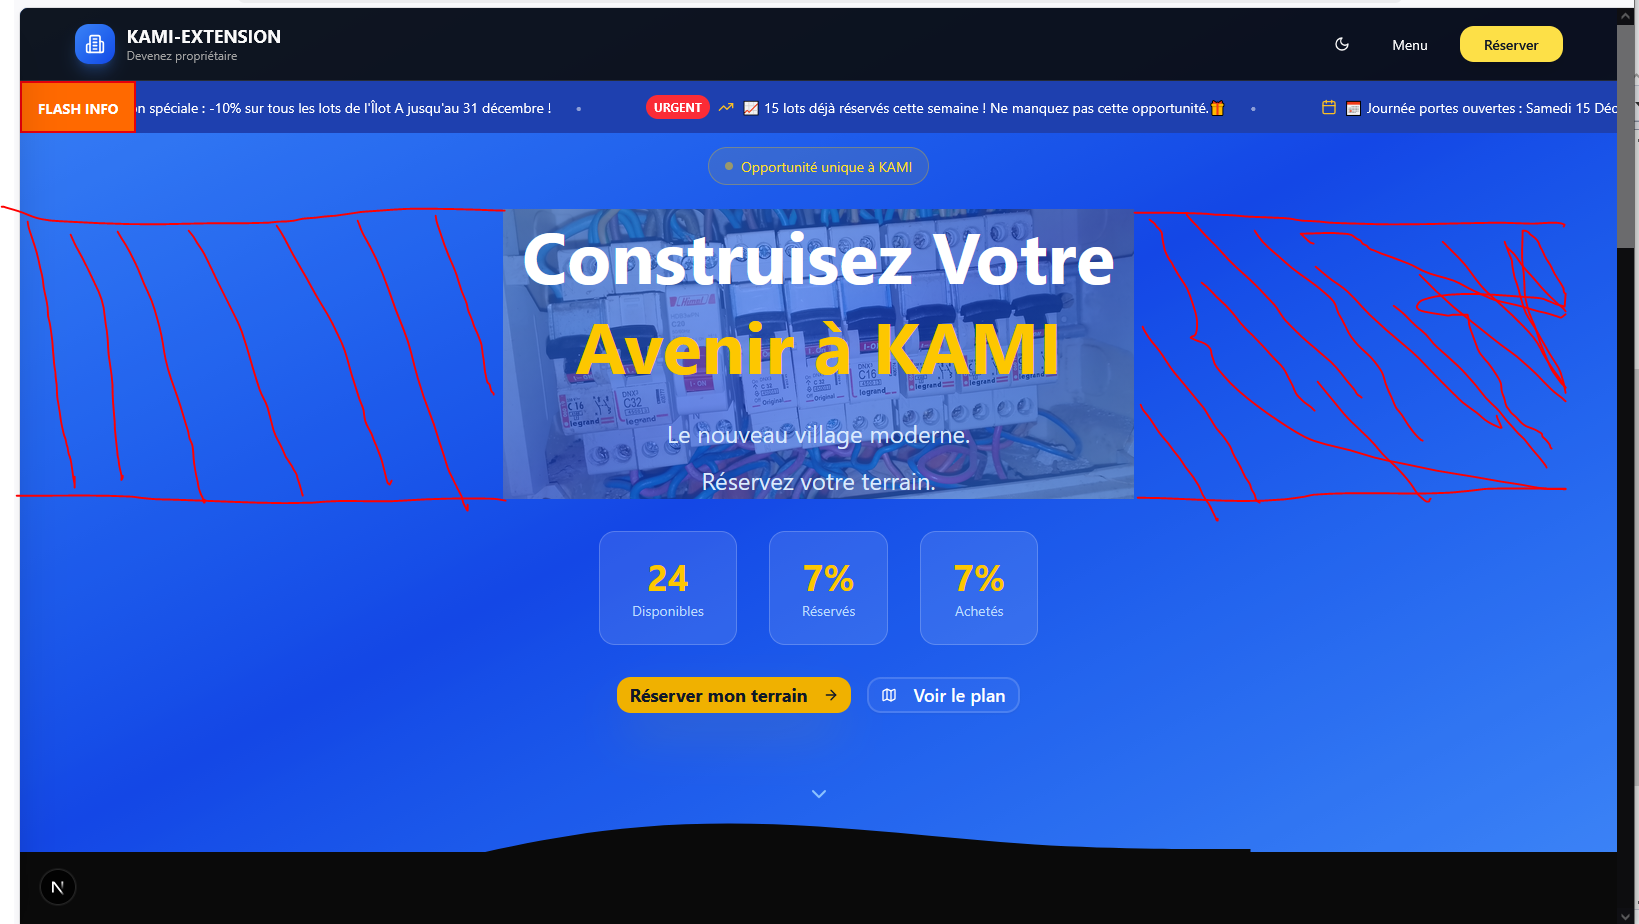
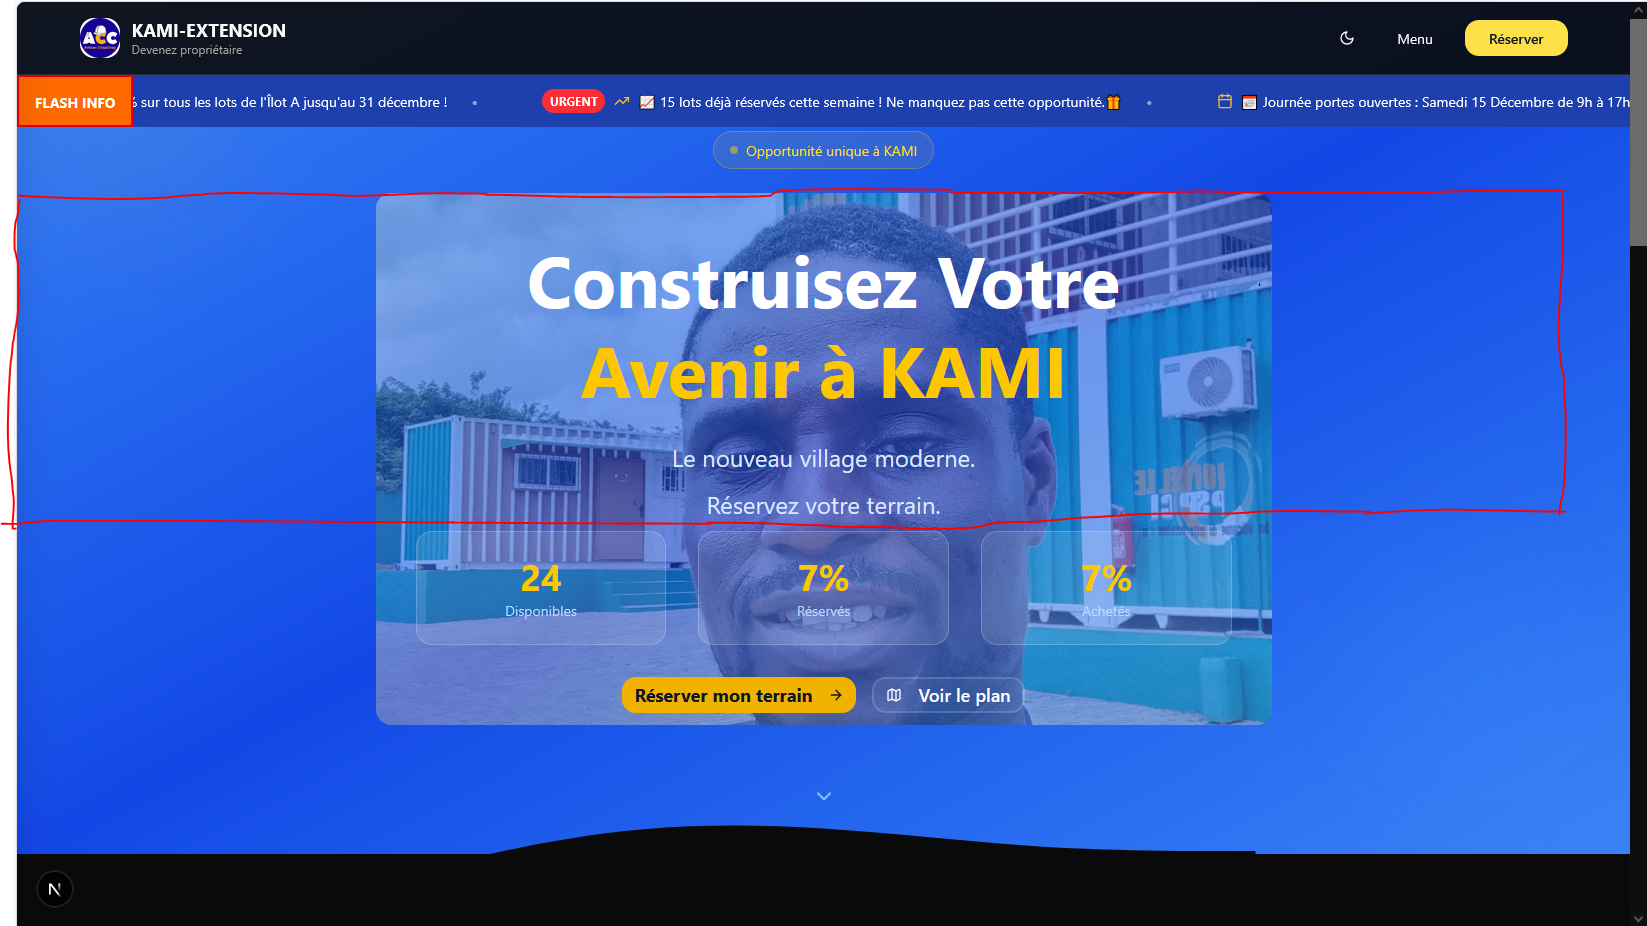
ea3c562f-093c-412b-a10b-f506db16364b

diff --git a/src/components/kami/PersuasiveLandingPage.tsx b/src/components/kami/PersuasiveLandingPage.tsx
@@ -208,7 +208,7 @@ export function PersuasiveLandingPage({ onReserveClick, lots, setIsMenuOpen, set
               </span>
             </div>
 
-            {/* ===== Image de fond : juste en-dessous du badge, jusqu'aux boutons ===== */}
+            {/* ===== Image de fond : titre + sous-titre uniquement ===== */}
             <div
               className="relative rounded-2xl overflow-hidden"
               style={heroBackground ? {
@@ -222,7 +222,7 @@ export function PersuasiveLandingPage({ onReserveClick, lots, setIsMenuOpen, set
                 <div className="absolute inset-0 bg-gradient-to-br from-brand-blue/55 via-blue-700/55 to-brand-blue/55" />
               )}
 
-              <div className="relative z-10 pt-6 pb-3 md:pt-10 md:pb-3 px-4 md:px-10">
+              <div className="relative z-10 py-6 md:py-10 px-4 md:px-10">
                 {/* Main Heading */}
                 <h1 className="text-4xl sm:text-4xl md:text-5xl lg:text-7xl font-bold mb-4 md:mb-6 leading-tight">
                   Construisez Votre
@@ -230,48 +230,48 @@ export function PersuasiveLandingPage({ onReserveClick, lots, setIsMenuOpen, set
                 </h1>
 
                 {/* Subtitle */}
-                <div className="text-base md:text-xl lg:text-2xl text-blue-100 mb-2 leading-relaxed max-w-2xl mx-auto">
+                <div className="text-base md:text-xl lg:text-2xl text-blue-100 leading-relaxed max-w-2xl mx-auto">
                   Le nouveau village moderne.
                 </div>
-                <div className="text-base md:text-xl lg:text-2xl text-blue-100 pb-2 leading-relaxed max-w-2xl mx-auto">
+                <div className="text-base md:text-xl lg:text-2xl text-blue-100 leading-relaxed max-w-2xl mx-auto">
                   Réservez votre terrain.
                 </div>
-
-                {/* Stats */}
-                <div className="flex flex-row gap-2 md:gap-8 justify-center mb-5 md:mb-8">
-                  <div className="bg-white/10 backdrop-blur-sm rounded-xl md:rounded-2xl px-3 md:px-8 py-2 md:py-6 border border-white/20 flex-1">
-                    <p className="text-xl md:text-4xl font-bold text-yellow-400">{animatedNumbers.available}</p>
-                    <p className="text-[10px] md:text-sm text-blue-200 mt-1">Disponibles</p>
-                  </div>
-                  <div className="bg-white/10 backdrop-blur-sm rounded-xl md:rounded-2xl px-3 md:px-8 py-2 md:py-6 border border-white/20 flex-1">
-                    <p className="text-xl md:text-4xl font-bold text-yellow-400">{animatedNumbers.reservedRate}%</p>
-                    <p className="text-[10px] md:text-sm text-blue-200 mt-1">Réservés</p>
-                  </div>
-                  <div className="bg-white/10 backdrop-blur-sm rounded-xl md:rounded-2xl px-3 md:px-8 py-2 md:py-6 border border-white/20 flex-1">
-                    <p className="text-xl md:text-4xl font-bold text-yellow-400">{animatedNumbers.purchasedRate}%</p>
-                    <p className="text-[10px] md:text-sm text-blue-200 mt-1">Achetés</p>
-                  </div>
-                </div>
-
-                {/* CTA Buttons */}
-                <div className="flex flex-col sm:flex-row gap-3 md:gap-4 justify-center">
-                  <Button
-                    onClick={onReserveClick}
-                    className="bg-yellow-400 dark:bg-yellow-500 hover:bg-yellow-500 dark:hover:bg-yellow-600 text-gray-900 dark:text-gray-900 font-bold py-3 md:py-4 px-8 md:px-10 rounded-lg md:rounded-xl text-base md:text-lg shadow-2xl shadow-yellow-400/40 dark:shadow-yellow-400/30 transition-all hover:scale-105 hover:shadow-yellow-400/50"
-                  >
-                    Réserver mon terrain
-                    <ArrowRight className="ml-2 h-5 w-5" />
-                  </Button>
-                  <Button
-                    onClick={handleViewPlan}
-                    variant="outline"
-                    className="bg-white/10 hover:bg-white/20 text-white border-2 border-white/30 font-semibold py-3 md:py-4 px-8 md:px-10 rounded-lg md:rounded-xl text-base md:text-lg backdrop-blur-sm transition-all hover:scale-105"
-                  >
-                    <Map className="mr-2 h-5 w-5" />
-                    Voir le plan
-                  </Button>
-                </div>
               </div>
+            </div>
+
+            {/* Stats — hors de l'image de fond */}
+            <div className="flex flex-row gap-2 md:gap-8 justify-center mt-5 md:mt-8 mb-5 md:mb-8">
+              <div className="bg-white/10 backdrop-blur-sm rounded-xl md:rounded-2xl px-3 md:px-8 py-2 md:py-6 border border-white/20 flex-1">
+                <p className="text-xl md:text-4xl font-bold text-yellow-400">{animatedNumbers.available}</p>
+                <p className="text-[10px] md:text-sm text-blue-200 mt-1">Disponibles</p>
+              </div>
+              <div className="bg-white/10 backdrop-blur-sm rounded-xl md:rounded-2xl px-3 md:px-8 py-2 md:py-6 border border-white/20 flex-1">
+                <p className="text-xl md:text-4xl font-bold text-yellow-400">{animatedNumbers.reservedRate}%</p>
+                <p className="text-[10px] md:text-sm text-blue-200 mt-1">Réservés</p>
+              </div>
+              <div className="bg-white/10 backdrop-blur-sm rounded-xl md:rounded-2xl px-3 md:px-8 py-2 md:py-6 border border-white/20 flex-1">
+                <p className="text-xl md:text-4xl font-bold text-yellow-400">{animatedNumbers.purchasedRate}%</p>
+                <p className="text-[10px] md:text-sm text-blue-200 mt-1">Achetés</p>
+              </div>
+            </div>
+
+            {/* CTA Buttons — hors de l'image de fond */}
+            <div className="flex flex-col sm:flex-row gap-3 md:gap-4 justify-center">
+              <Button
+                onClick={onReserveClick}
+                className="bg-yellow-400 dark:bg-yellow-500 hover:bg-yellow-500 dark:hover:bg-yellow-600 text-gray-900 dark:text-gray-900 font-bold py-3 md:py-4 px-8 md:px-10 rounded-lg md:rounded-xl text-base md:text-lg shadow-2xl shadow-yellow-400/40 dark:shadow-yellow-400/30 transition-all hover:scale-105 hover:shadow-yellow-400/50"
+              >
+                Réserver mon terrain
+                <ArrowRight className="ml-2 h-5 w-5" />
+              </Button>
+              <Button
+                onClick={handleViewPlan}
+                variant="outline"
+                className="bg-white/10 hover:bg-white/20 text-white border-2 border-white/30 font-semibold py-3 md:py-4 px-8 md:px-10 rounded-lg md:rounded-xl text-base md:text-lg backdrop-blur-sm transition-all hover:scale-105"
+              >
+                <Map className="mr-2 h-5 w-5" />
+                Voir le plan
+              </Button>
             </div>
 
             {/* Scroll Indicator - only on desktop */}
